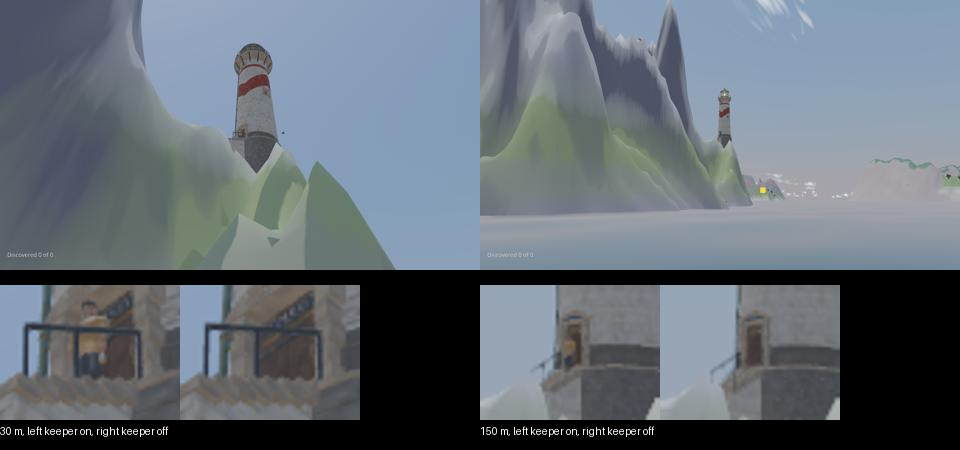
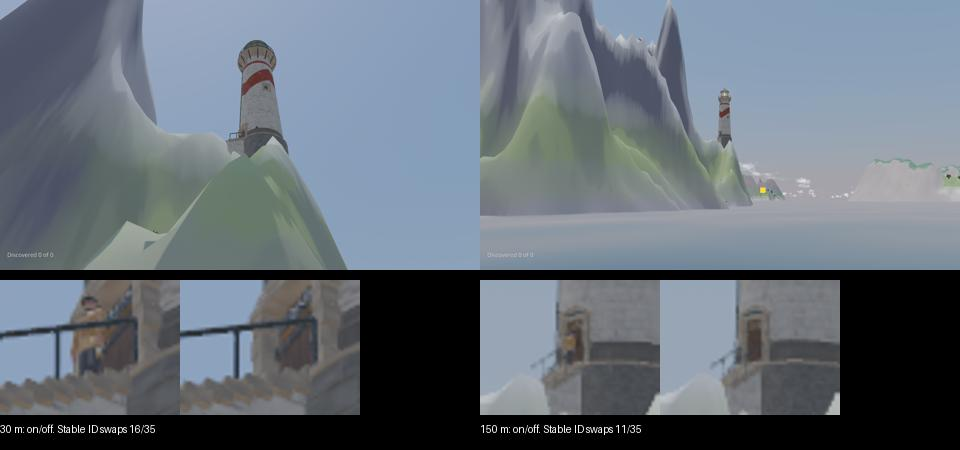
docs(drift): show the shipped keeper on the verified sea approaches
Use the final groom and real package frames. At sea height the 30 metre approach has a navigable bearing of 225 degrees, while the outer 150 metre view is clear at 240 degrees. Entity ID readbacks distinguish the distant figure from temporal colour noise.

diff --git a/docs/guides/drift-keeper.md b/docs/guides/drift-keeper.md
@@ -6,6 +6,12 @@ He watches out to 115 m. From 18:30 until 06:00 he raises his brass lantern.
 He stands on the granite tread with his feet planted. His boots, ochre oilskin
 and the light in his left hand give him a silhouette you can read from the water.
 
+![The keeper raises a brass lantern at the Stacks Light door in the packaged game](../images/drift-keeper/packaged.jpg)
+
+The packaged OpenGL runtime drew this view from the inspection camera with
+the cooking project’s keeper model folder renamed. The ordinary menu’s Continue
+button restores the voyage with the boat camera.
+
 ## Drawing the figure
 
 Three photographs guided different parts of the design. The keeper's head,
@@ -145,19 +151,20 @@ first. The coat hem, cap peak and bent arm carry the gesture farther.
 
 ## From the water
 
-Approach from west-southwest to see the door. At a camera height of 2.5 m,
-the stack itself hides the keeper when looking along his forward axis. The
-paired crops below use a bearing of 240° from world +X towards +Z. At 30 m
-horizontal range the oilskin and dark trousers separate across the rail. At
-150 m the coat is a few amber pixels in the doorway. The right-hand crop in
-each pair moves the keeper out of frame and leaves the stair in place.
+At a helm height of 2.5 m the stack hides the door on some bearings. The
+30 m view below looks in from 225° measured from world +X towards +Z. Its
+seabed is 7.22 m below sea level. The 150 m camera uses 240°. At 30 m the
+oilskin and dark trousers separate across the rail. At 150 m the coat covers
+a few amber pixels in the doorway. At 30 m, 16 of 35 sampled entity IDs changed when the keeper moved out of view
+and returned when he moved back. At 150 m, 11 of 35 did the same.
+The crops show exactly which part of the doorway he occupies.
 
 ![Full Drift from sea level at 30 m and 150 m with enlarged keeper-on and keeper-off crops](../images/drift-keeper/approach.jpg)
 
 The fixed-camera close-ups use the tower, sun, body, eye profiles and bound
 hair from the shipped scene. Each has a matching groom-off frame. In OpenGL
-Deferred, the 4× MSAA pair changed 113,567 pixels above the repeat-control
-noise threshold. Temporal Quality upscale changed 84,428 pixels.
+Deferred, the 4× MSAA pair changed 113,251 pixels above the repeat-control
+noise threshold. Temporal Quality upscale changed 84,033 pixels.
 
 ![The same face in OpenGL and Vulkan on Forward, Forward+ and Deferred](../images/drift-keeper/render-paths.jpg)
 
